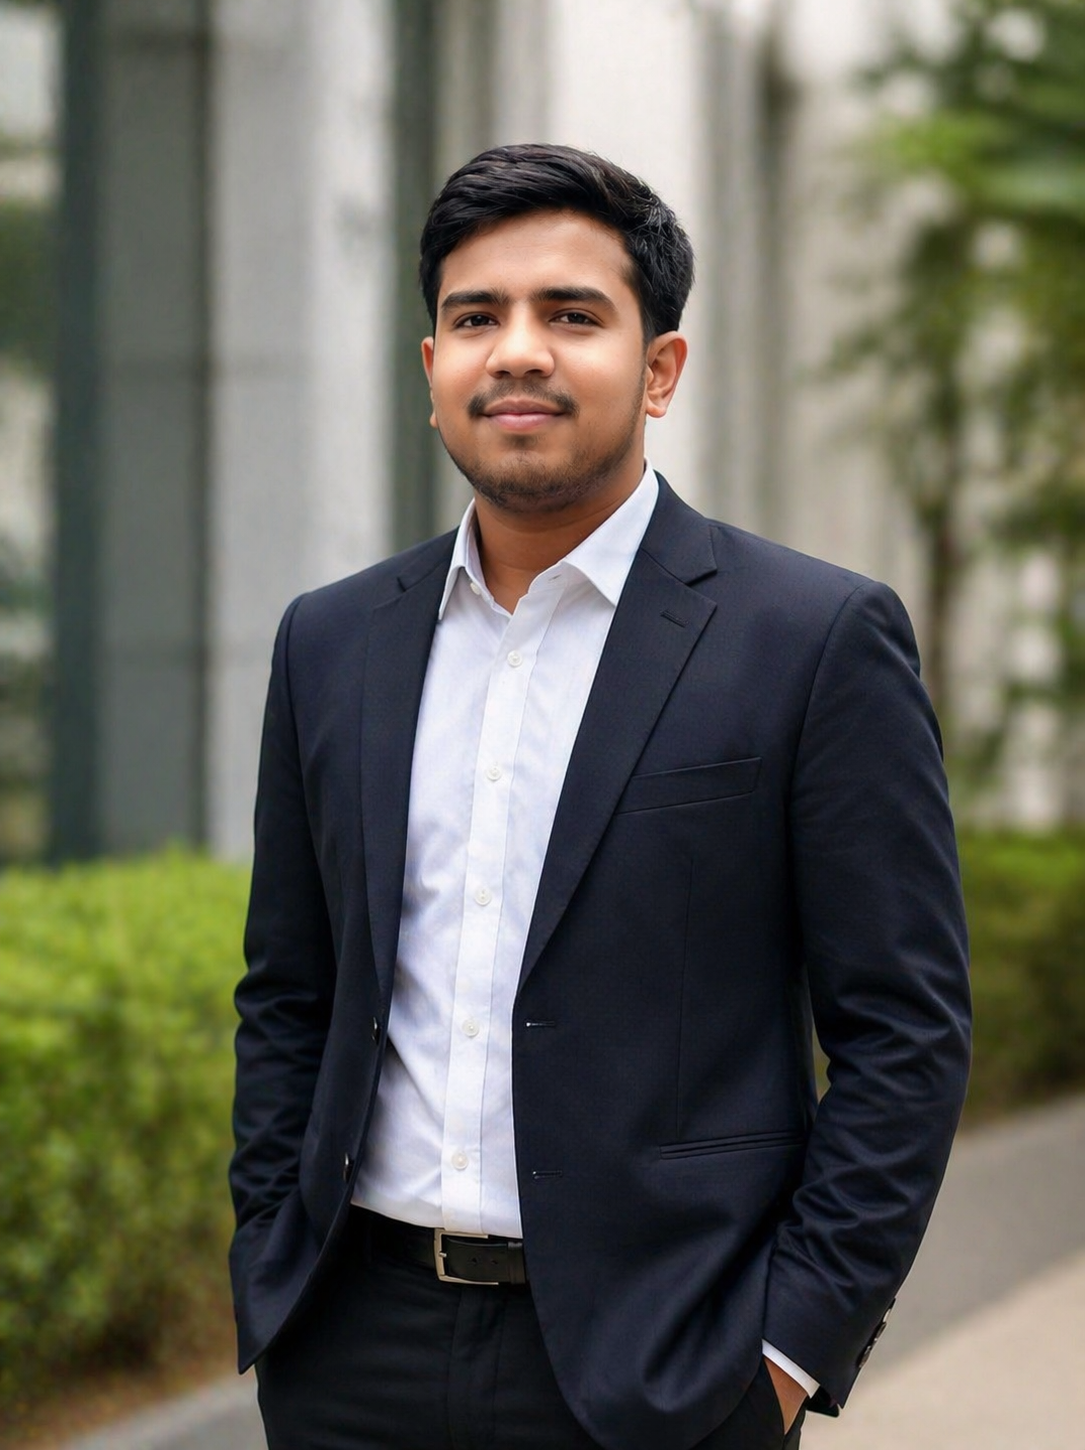
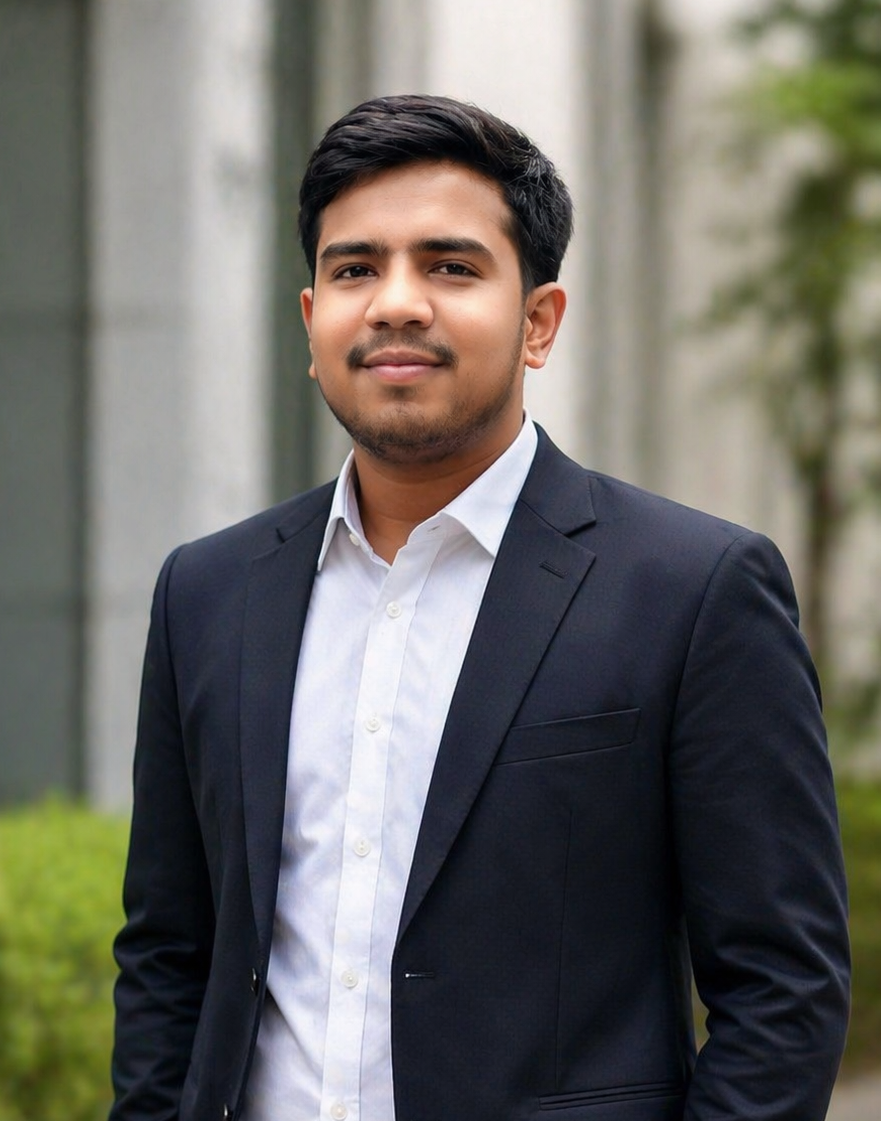
feat: implement About Us page and update landing styles with team member profiles

diff --git a/src/pages/public/AboutUs.jsx b/src/pages/public/AboutUs.jsx
@@ -74,7 +74,26 @@ export function AboutUs() {
             <div className="grid-3" style={{ gap: 24 }}>
               {/* Profile: Imran */}
               <div className="card card-hover" style={{ padding: '32px 24px', textAlign: 'center', display: 'flex', flexDirection: 'column', alignItems: 'center' }}>
-                <div className="avatar avatar-xl avatar-teal" style={{ width: 64, height: 64, fontSize: '1.25rem', marginBottom: 18 }}>AE</div>
+                <div style={{ position: 'relative', marginBottom: 18 }}>
+                  <img
+                    src="/Al-Imran-Emon.png"
+                    alt="Md. Al Imran Emon"
+                    style={{
+                      width: 88,
+                      height: 88,
+                      borderRadius: '50%',
+                      objectFit: 'cover',
+                      objectPosition: 'center top',
+                      border: '3px solid var(--accent)',
+                      boxShadow: '0 6px 16px rgba(0,0,0,0.15)',
+                    }}
+                    onError={(e) => {
+                      e.target.style.display = 'none';
+                      e.target.nextSibling.style.display = 'flex';
+                    }}
+                  />
+                  <div className="avatar avatar-xl avatar-teal" style={{ display: 'none', width: 88, height: 88, fontSize: '1.5rem' }}>AE</div>
+                </div>
                 <h3 style={{ fontSize: '1.1875rem', fontWeight: 800, color: 'var(--text-primary)', marginBottom: 4 }}>Md. Al Imran Emon</h3>
                 <div style={{ fontSize: '0.8125rem', fontWeight: 600, color: 'var(--accent)', textTransform: 'uppercase', letterSpacing: '0.04em', marginBottom: 12 }}>Lead Developer & Systems Architect</div>
                 <p className="body-sm" style={{ color: 'var(--text-secondary)', marginBottom: 16 }}>
@@ -89,7 +108,26 @@ export function AboutUs() {
 
               {/* Profile: Mashuk */}
               <div className="card card-hover" style={{ padding: '32px 24px', textAlign: 'center', display: 'flex', flexDirection: 'column', alignItems: 'center' }}>
-                <div className="avatar avatar-xl avatar-blue" style={{ width: 64, height: 64, fontSize: '1.25rem', marginBottom: 18 }}>MR</div>
+                <div style={{ position: 'relative', marginBottom: 18 }}>
+                  <img
+                    src="/Mashuk.jpeg"
+                    alt="Mashuk Rahman"
+                    style={{
+                      width: 88,
+                      height: 88,
+                      borderRadius: '50%',
+                      objectFit: 'cover',
+                      objectPosition: 'center top',
+                      border: '3px solid var(--accent)',
+                      boxShadow: '0 6px 16px rgba(0,0,0,0.15)',
+                    }}
+                    onError={(e) => {
+                      e.target.style.display = 'none';
+                      e.target.nextSibling.style.display = 'flex';
+                    }}
+                  />
+                  <div className="avatar avatar-xl avatar-blue" style={{ display: 'none', width: 88, height: 88, fontSize: '1.5rem' }}>MR</div>
+                </div>
                 <h3 style={{ fontSize: '1.1875rem', fontWeight: 800, color: 'var(--text-primary)', marginBottom: 4 }}>Mashuk Rahman</h3>
                 <div style={{ fontSize: '0.8125rem', fontWeight: 600, color: 'var(--accent)', textTransform: 'uppercase', letterSpacing: '0.04em', marginBottom: 12 }}>Frontend Developer</div>
                 <p className="body-sm" style={{ color: 'var(--text-secondary)', marginBottom: 16 }}>
@@ -104,7 +142,36 @@ export function AboutUs() {
 
               {/* Profile: Sinthia */}
               <div className="card card-hover" style={{ padding: '32px 24px', textAlign: 'center', display: 'flex', flexDirection: 'column', alignItems: 'center' }}>
-                <div className="avatar avatar-xl avatar-purple" style={{ width: 64, height: 64, fontSize: '1.25rem', marginBottom: 18 }}>SA</div>
+                <div style={{
+                  position: 'relative',
+                  marginBottom: 18,
+                  width: 88,
+                  height: 88,
+                  borderRadius: '50%',
+                  overflow: 'hidden',
+                  border: '3px solid var(--accent)',
+                  boxShadow: '0 6px 16px rgba(0,0,0,0.15)',
+                  display: 'flex',
+                  alignItems: 'center',
+                  justifyContent: 'center',
+                }}>
+                  <img
+                    src="/Sinthia.png"
+                    alt="Sinthia Akter"
+                    style={{
+                      width: '100%',
+                      height: '100%',
+                      objectFit: 'cover',
+                      objectPosition: 'center 8%',
+                      transform: 'scale(1.45) translateY(6%)',
+                    }}
+                    onError={(e) => {
+                      e.target.style.display = 'none';
+                      e.target.nextSibling.style.display = 'flex';
+                    }}
+                  />
+                  <div className="avatar avatar-xl avatar-purple" style={{ display: 'none', width: '100%', height: '100%', fontSize: '1.5rem' }}>SA</div>
+                </div>
                 <h3 style={{ fontSize: '1.1875rem', fontWeight: 800, color: 'var(--text-primary)', marginBottom: 4 }}>Sinthia Akter</h3>
                 <div style={{ fontSize: '0.8125rem', fontWeight: 600, color: 'var(--accent)', textTransform: 'uppercase', letterSpacing: '0.04em', marginBottom: 12 }}>UI/UX Designer</div>
                 <p className="body-sm" style={{ color: 'var(--text-secondary)', marginBottom: 16 }}>

diff --git a/src/pages/public/Landing.jsx b/src/pages/public/Landing.jsx
@@ -237,8 +237,19 @@ export function Landing() {
               {/* Profile 1: Md. Al Imran Emon */}
               <div className="team-card card-hover">
                 <div className="team-avatar-wrap">
-                  <div className="avatar avatar-xl avatar-teal" style={{ width: 68, height: 68, fontSize: '1.25rem' }}>
-                    AE
+                  <div className="team-avatar-frame">
+                    <img
+                      src="/Al-Imran-Emon.png"
+                      alt="Md. Al Imran Emon"
+                      className="team-avatar-img"
+                      onError={(e) => {
+                        e.target.style.display = 'none';
+                        e.target.nextSibling.style.display = 'flex';
+                      }}
+                    />
+                    <div className="avatar avatar-xl avatar-teal" style={{ display: 'none', width: '100%', height: '100%', fontSize: '1.5rem', borderRadius: '50%' }}>
+                      AE
+                    </div>
                   </div>
                 </div>
                 <h3 className="team-name">Md. Al Imran Emon</h3>
@@ -257,8 +268,19 @@ export function Landing() {
               {/* Profile 2: Mashuk Rahman */}
               <div className="team-card card-hover">
                 <div className="team-avatar-wrap">
-                  <div className="avatar avatar-xl avatar-blue" style={{ width: 68, height: 68, fontSize: '1.25rem' }}>
-                    MR
+                  <div className="team-avatar-frame">
+                    <img
+                      src="/Mashuk.jpeg"
+                      alt="Mashuk Rahman"
+                      className="team-avatar-img"
+                      onError={(e) => {
+                        e.target.style.display = 'none';
+                        e.target.nextSibling.style.display = 'flex';
+                      }}
+                    />
+                    <div className="avatar avatar-xl avatar-blue" style={{ display: 'none', width: '100%', height: '100%', fontSize: '1.5rem', borderRadius: '50%' }}>
+                      MR
+                    </div>
                   </div>
                 </div>
                 <h3 className="team-name">Mashuk Rahman</h3>
@@ -277,8 +299,19 @@ export function Landing() {
               {/* Profile 3: Sinthia Akter */}
               <div className="team-card card-hover">
                 <div className="team-avatar-wrap">
-                  <div className="avatar avatar-xl avatar-purple" style={{ width: 68, height: 68, fontSize: '1.25rem' }}>
-                    SA
+                  <div className="team-avatar-frame">
+                    <img
+                      src="/Sinthia.png"
+                      alt="Sinthia Akter"
+                      className="team-avatar-img team-avatar-sinthia"
+                      onError={(e) => {
+                        e.target.style.display = 'none';
+                        e.target.nextSibling.style.display = 'flex';
+                      }}
+                    />
+                    <div className="avatar avatar-xl avatar-purple" style={{ display: 'none', width: '100%', height: '100%', fontSize: '1.5rem', borderRadius: '50%' }}>
+                      SA
+                    </div>
                   </div>
                 </div>
                 <h3 className="team-name">Sinthia Akter</h3>

diff --git a/src/pages/public/Landing.css b/src/pages/public/Landing.css
@@ -287,6 +287,53 @@
 .team-avatar-wrap {
   position: relative;
   margin-bottom: 20px;
+  display: flex;
+  justify-content: center;
+  align-items: center;
+}
+
+.team-avatar-frame {
+  width: 92px;
+  height: 92px;
+  border-radius: 50%;
+  overflow: hidden;
+  border: 3px solid var(--accent);
+  box-shadow: 0 6px 16px rgba(0, 0, 0, 0.15);
+  background-color: var(--bg-surface-elevated);
+  display: flex;
+  align-items: center;
+  justify-content: center;
+  flex-shrink: 0;
+  position: relative;
+  transition: border-color var(--transition-normal), box-shadow var(--transition-normal);
+}
+
+.team-card:hover .team-avatar-frame {
+  border-color: var(--accent-hover);
+  box-shadow: 0 8px 24px rgba(20, 184, 166, 0.35);
+}
+
+.team-avatar-img {
+  width: 100%;
+  height: 100%;
+  object-fit: cover;
+  object-position: center top;
+  display: block;
+  transition: transform var(--transition-normal);
+}
+
+.team-card:hover .team-avatar-img {
+  transform: scale(1.06);
+}
+
+/* Face-centered slight zoom for Sinthia so face is prominent and clear */
+.team-avatar-img.team-avatar-sinthia {
+  transform: scale(1.45) translateY(6%);
+  object-position: center 8%;
+}
+
+.team-card:hover .team-avatar-img.team-avatar-sinthia {
+  transform: scale(1.52) translateY(6%);
 }
 
 .team-name {
